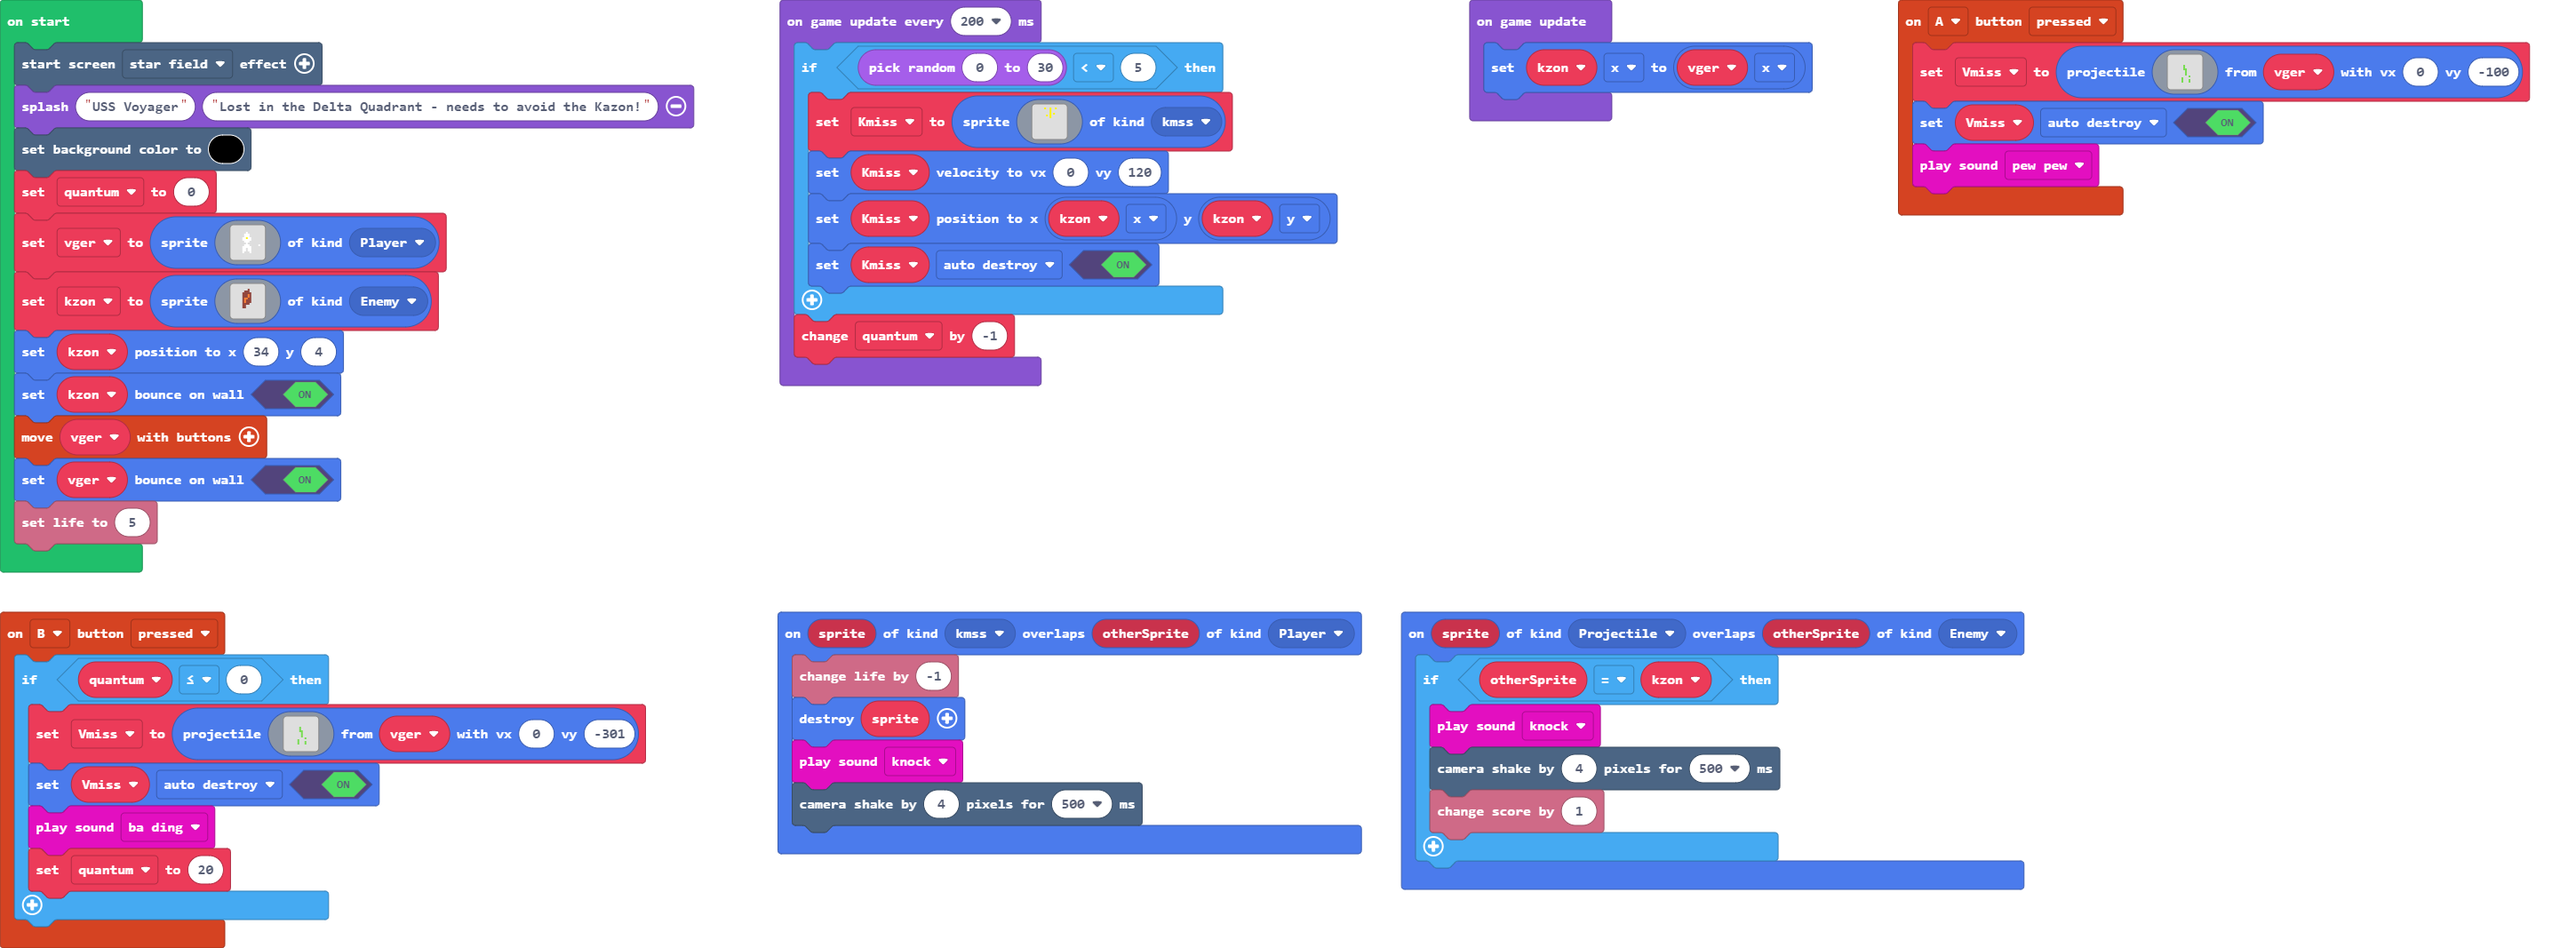
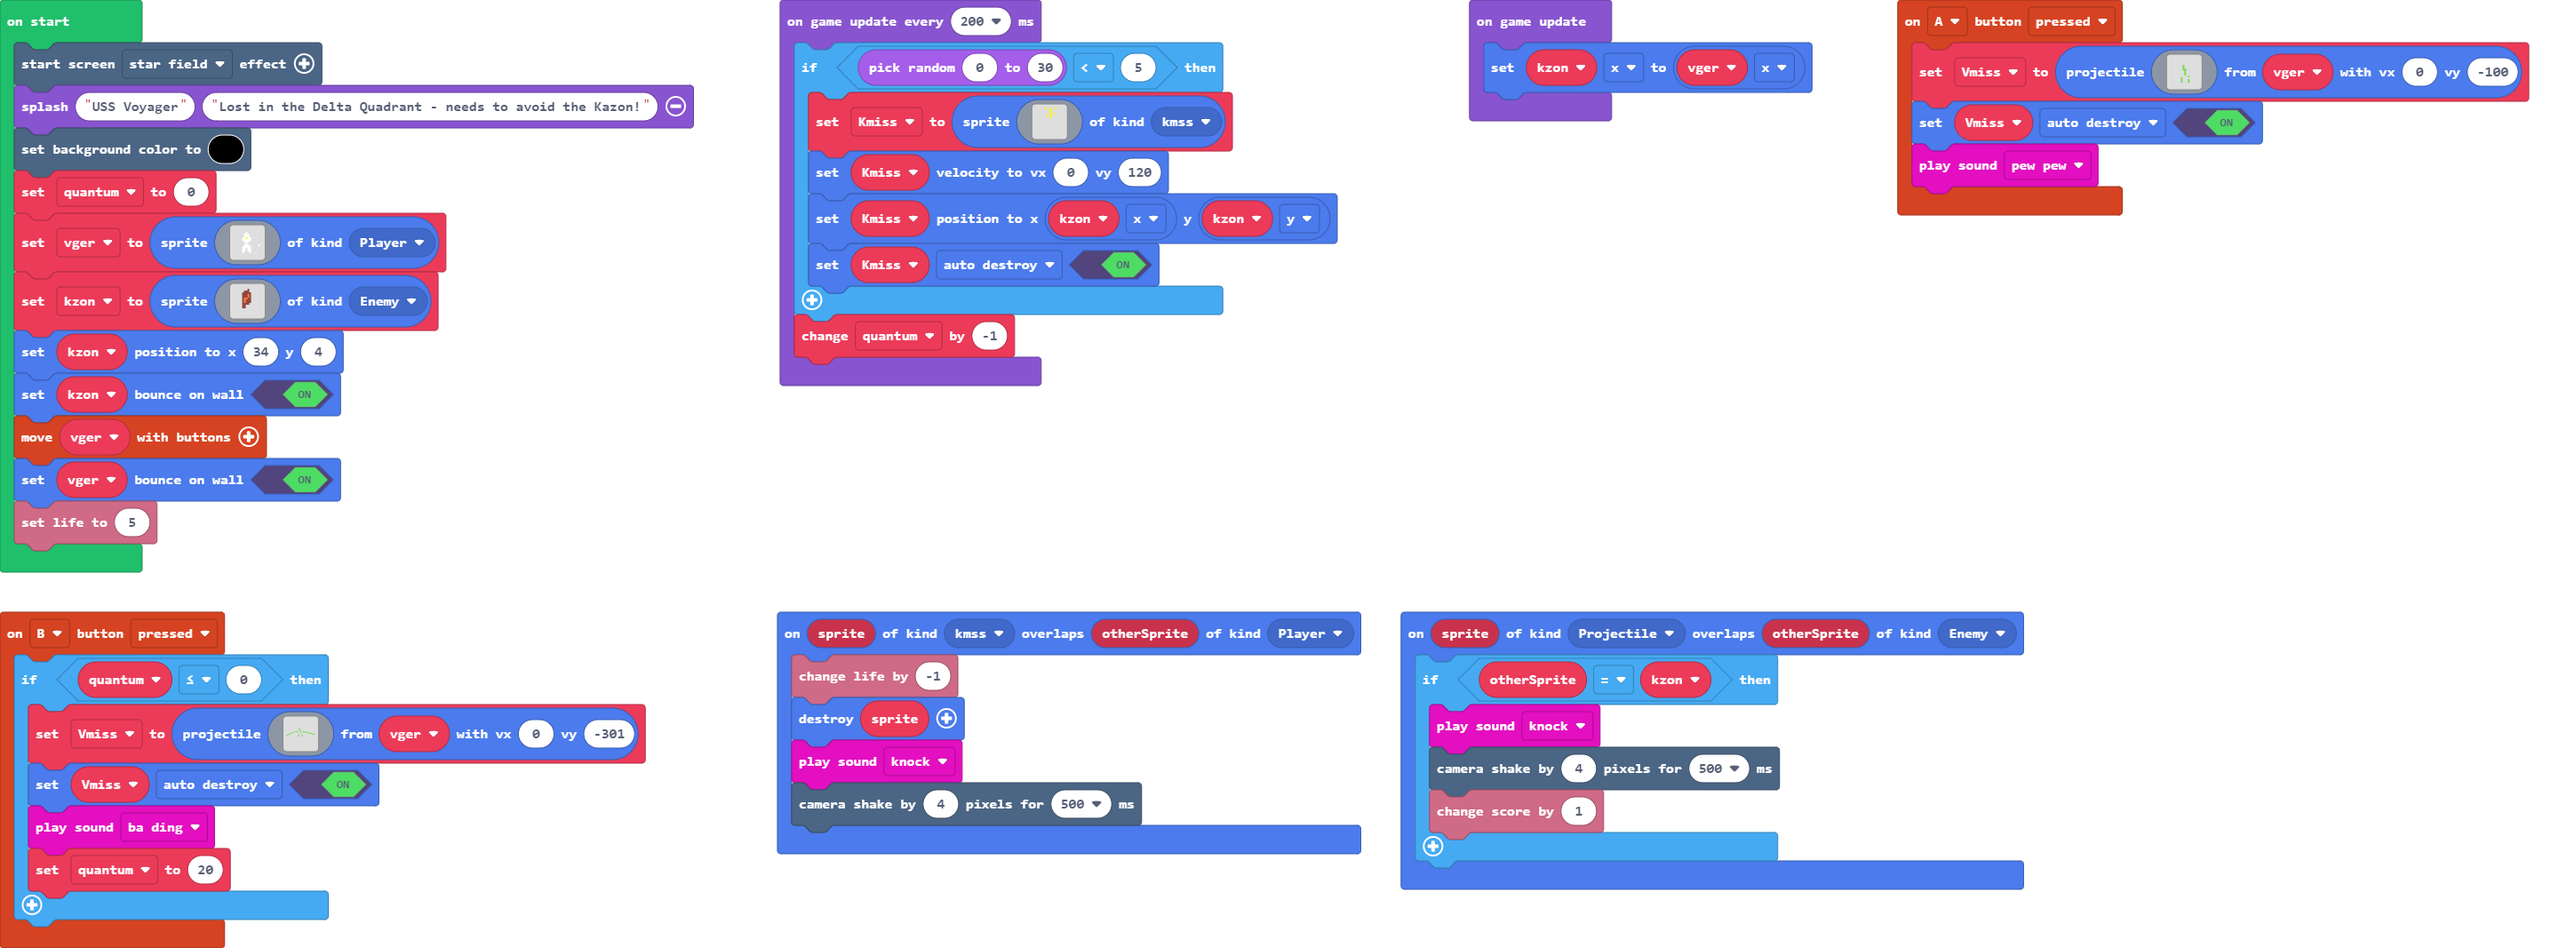
Update pxt.json, main.blocks, main.ts, images.g.jres, images.g.ts

Changed region(s): [[0.4658, 0.2165, 0.4969, 0.2474]]

diff --git a/images.g.ts b/images.g.ts
@@ -79,6 +79,25 @@ namespace myImages {
 . . . . . . . . . . . . . . . . 
 . . . . . . . . . . . . . . . . 
 `;
+            case "image5":
+            case "missle1":return img`
+................................
+..............7.................
+..............7.................
+..............77................
+...............7................
+.........7777..7..777...........
+......77.......7.....7777.......
+....77...........7.......7777...
+..77.........7...............777
+77...........7...7..............
+.............7...7..............
+................................
+................................
+................................
+................................
+................................
+`;
         }
         return null;
     })

diff --git a/main.ts b/main.ts
@@ -3,7 +3,7 @@ namespace SpriteKind {
 }
 controller.B.onEvent(ControllerButtonEvent.Pressed, function () {
     if (quantum <= 0) {
-        Vmiss = sprites.createProjectileFromSprite(assets.image`missle0`, vger, 0, -301)
+        Vmiss = sprites.createProjectileFromSprite(assets.image`missle1`, vger, 0, -301)
         Vmiss.setFlag(SpriteFlag.AutoDestroy, true)
         music.baDing.play()
         quantum = 20
